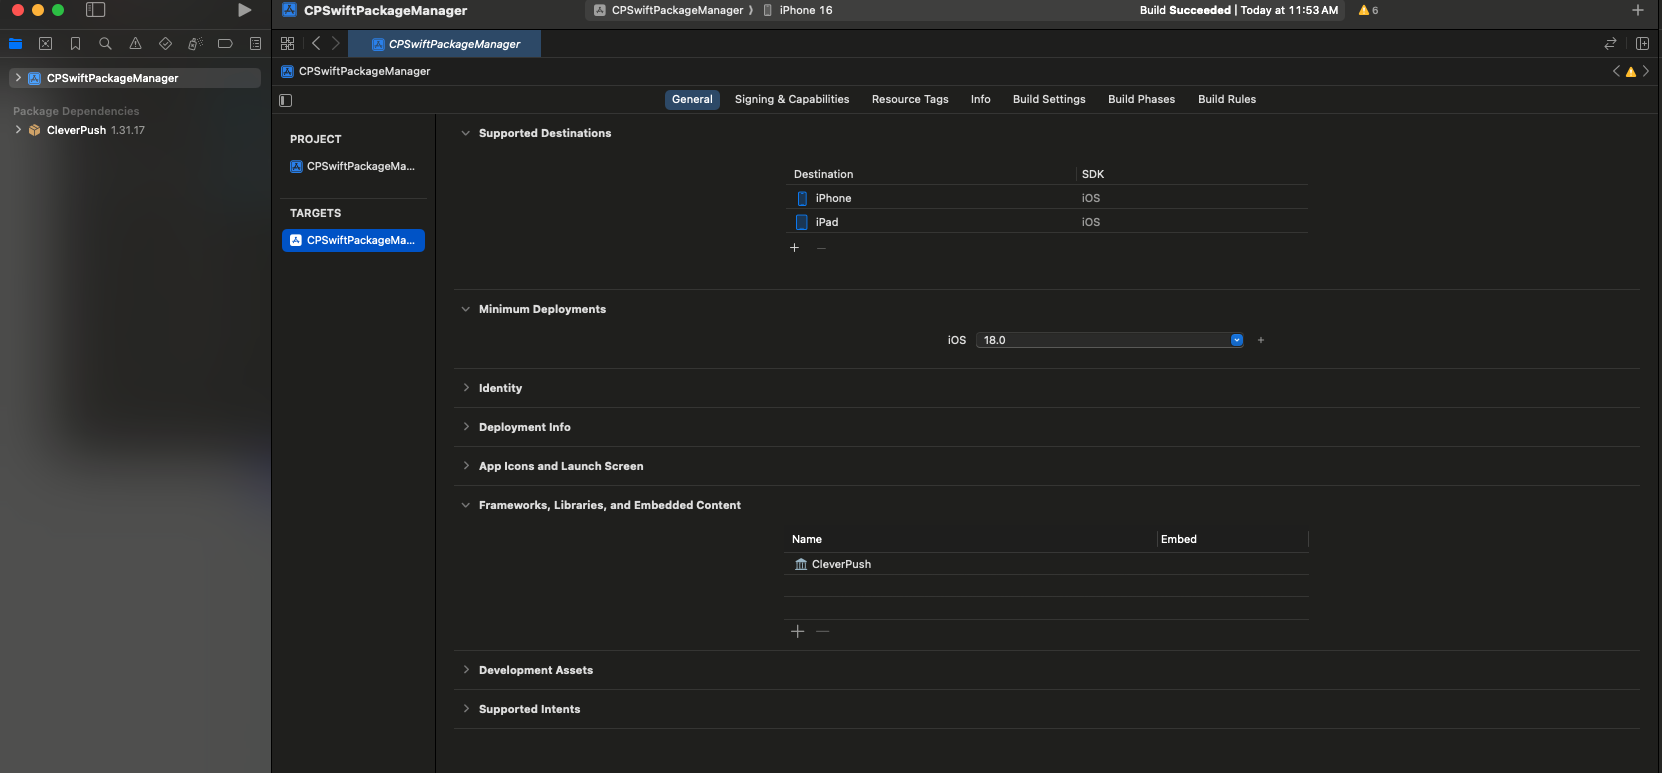
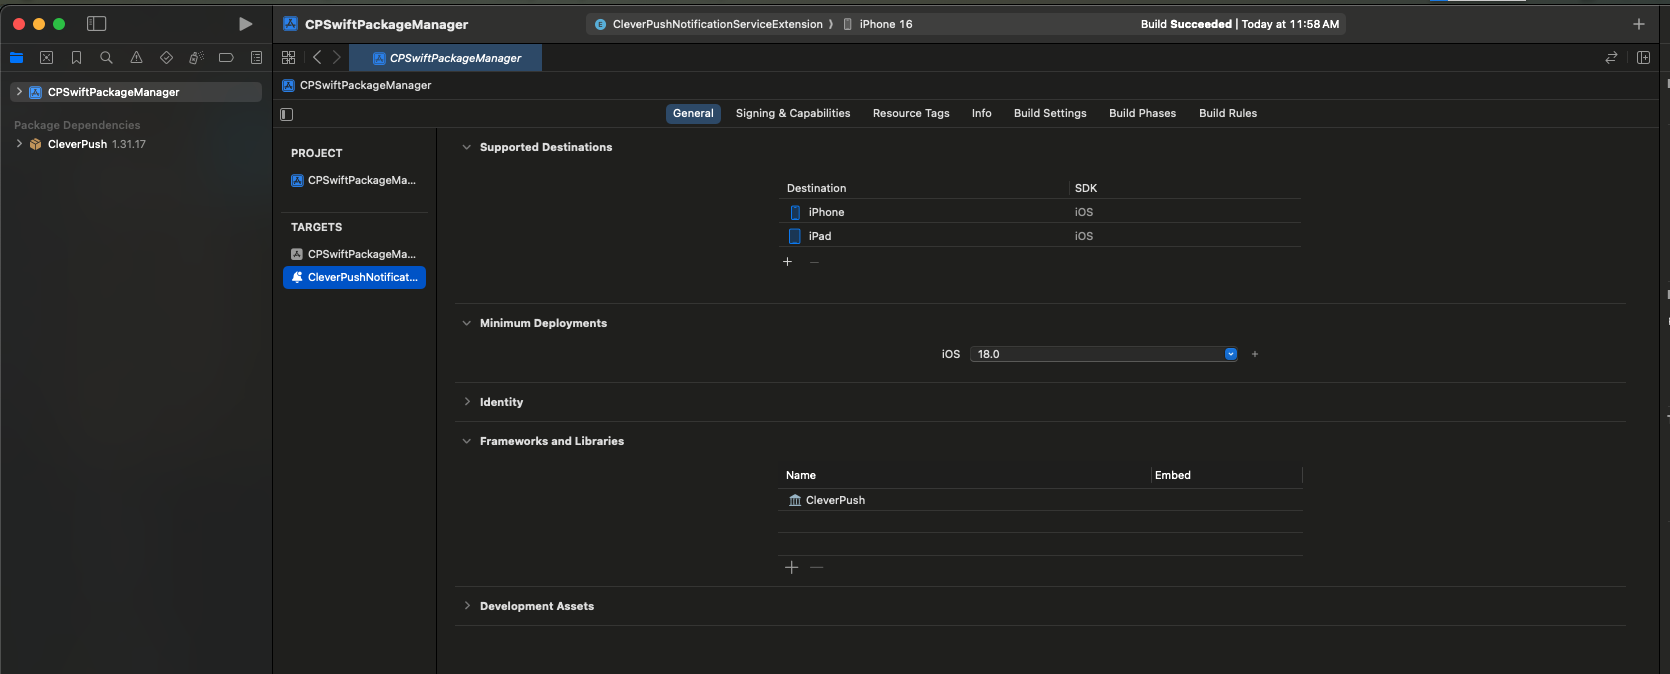
feature/CP-8793-ios-sdk-swift-package-manager-docs
Update the iOS documentation for Swift Package Manager.

diff --git a/docs/sdks/ios/setup.md b/docs/sdks/ios/setup.md
@@ -27,18 +27,26 @@ pod 'CleverPush', '~> 1.31.17'
 
 1. **Select your Project** > **Package Dependencies** > **+ button**.
 
-2. **Enter Package URL**:  
+    ![](https://raw.githubusercontent.com/cleverpush/cleverpush-developer-docs/refs/heads/master/docs/sdks/static/img/iOS_Swift_Package_Manager_Step1.png)
+    
+2. **Enter Package URL & Click Add Package**:  
    `https://github.com/cleverpush/cleverpush-ios-sdk.git`  
    Make sure **Dependency Rule** is set to **Up to Next Major Version** from **1.31.17**.
 
+   ![](https://raw.githubusercontent.com/cleverpush/cleverpush-developer-docs/refs/heads/master/docs/sdks/static/img/iOS_Swift_Package_Manager_Step2.png)
+
 3. **Click Add Package**.
 
-4. **Click Add Package**.
+    ![](https://raw.githubusercontent.com/cleverpush/cleverpush-developer-docs/refs/heads/master/docs/sdks/static/img/iOS_Swift_Package_Manager_Step3.png)
 
-5. **Select your Application Target** > **General** > **Frameworks, Libraries, and Embedded Content**.  
+4. **Select your Application Target** > **General** > **Frameworks, Libraries, and Embedded Content**.  
    Check to ensure the required **CleverPushFramework** and any optionally selected libraries have been added.
 
-6. If you have a **Notification Service Extension** or **Content Extension**, repeat the above steps for those targets to ensure the **CleverPushFramework** is included.
+   ![](https://raw.githubusercontent.com/cleverpush/cleverpush-developer-docs/refs/heads/master/docs/sdks/static/img/iOS_Swift_Package_Manager_Step4.png)
+
+5. If you have a **Notification Service Extension** or **Content Extension**, repeat the above steps for those targets to ensure the **CleverPushFramework** is included.
+
+    ![](https://raw.githubusercontent.com/cleverpush/cleverpush-developer-docs/refs/heads/master/docs/sdks/static/img/iOS_Swift_Package_Manager_Step5.png)
 
 **Carthage Setup**:
 
